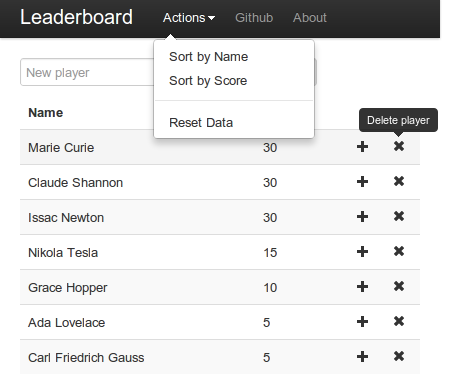
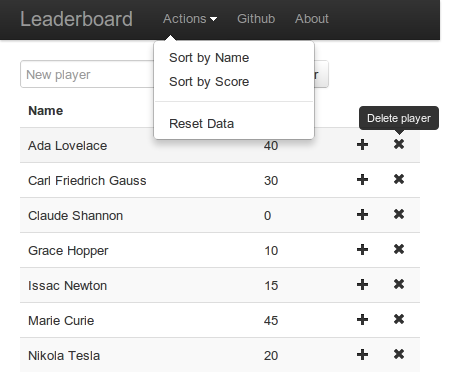
FIXED: 'Add Player' button. Updated screenshot.

diff --git a/client/leaderboard.html b/client/leaderboard.html
@@ -34,9 +34,9 @@
 </template>
 
 <template name="leaderboard">
-  <div>
+  <div class="input-append">
     <input id="player_name" type="text" placeholder="New player"/>
-    <input id="add_button" type="button" value="Add Player" />
+    <button id="add_button" class="btn" type="button">Add Player</button>
   </div>
   <table class="table table-striped">
     <thead>
